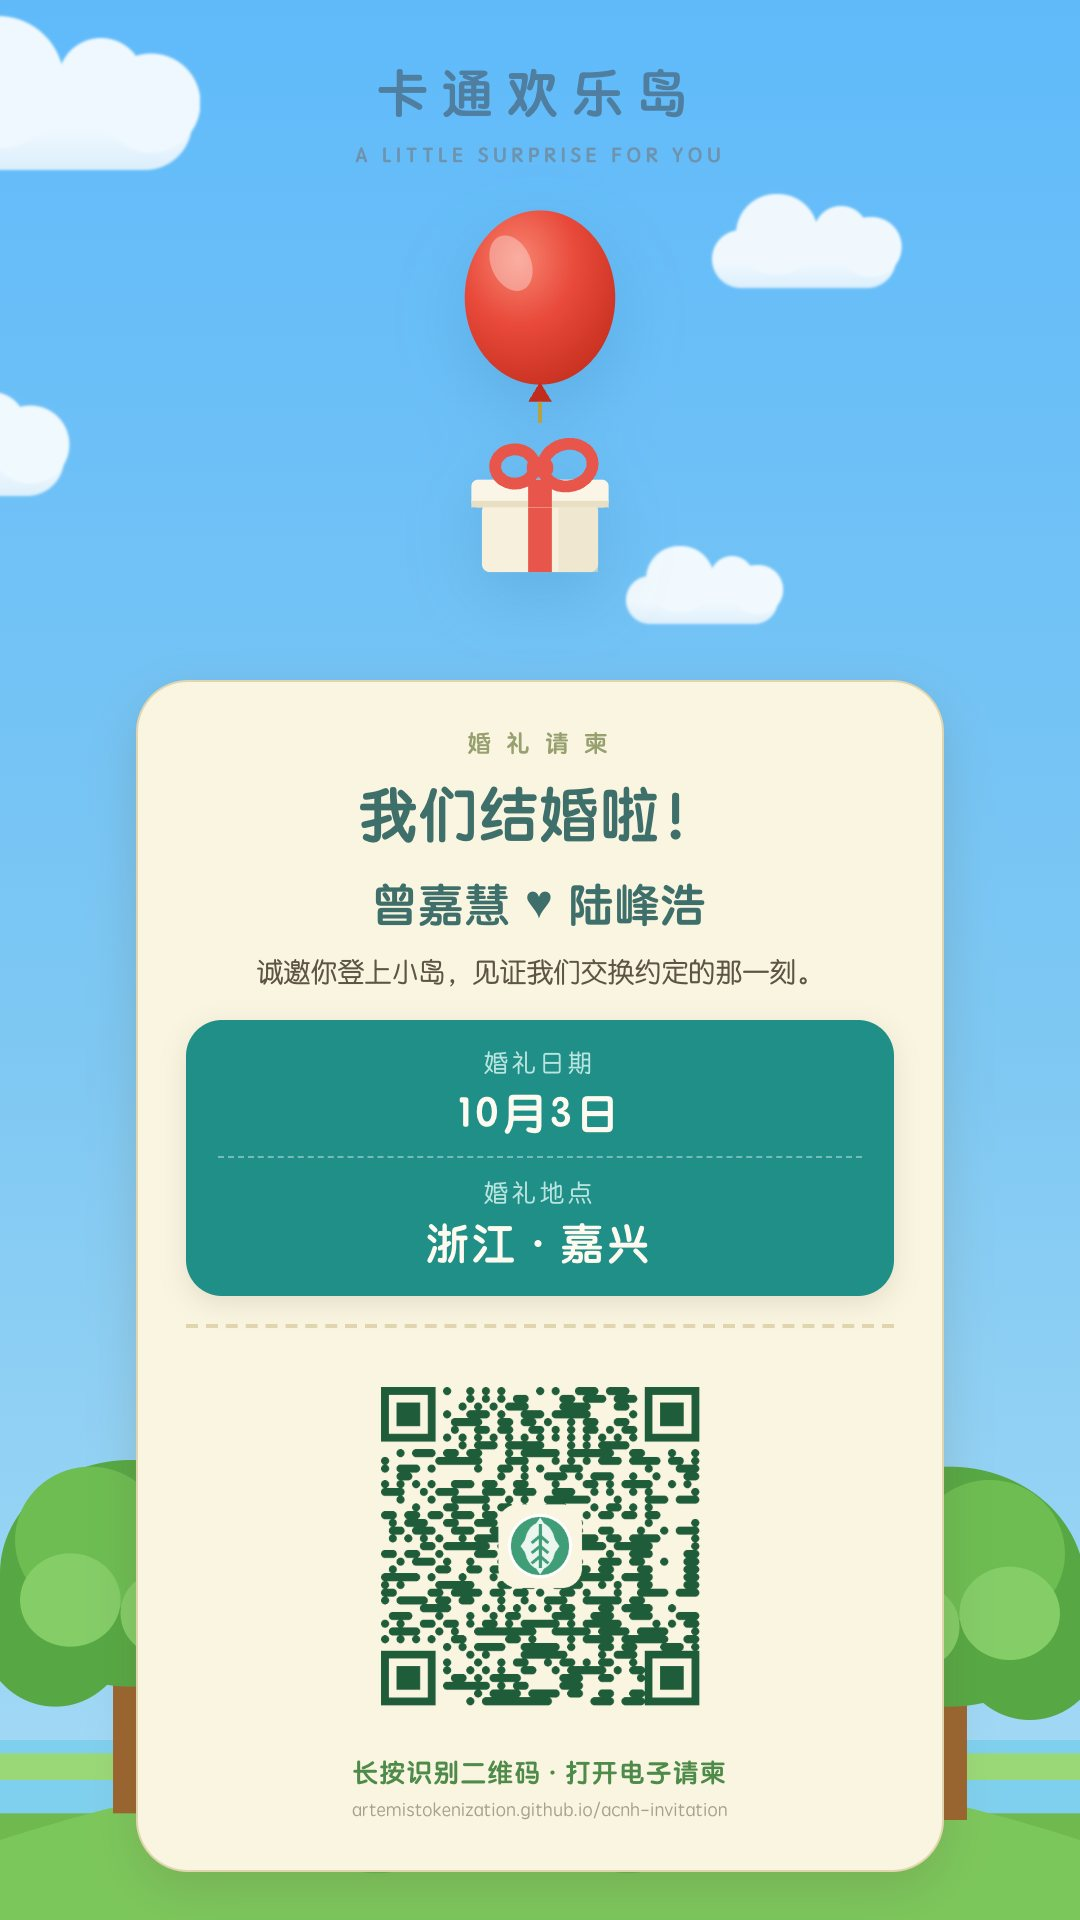
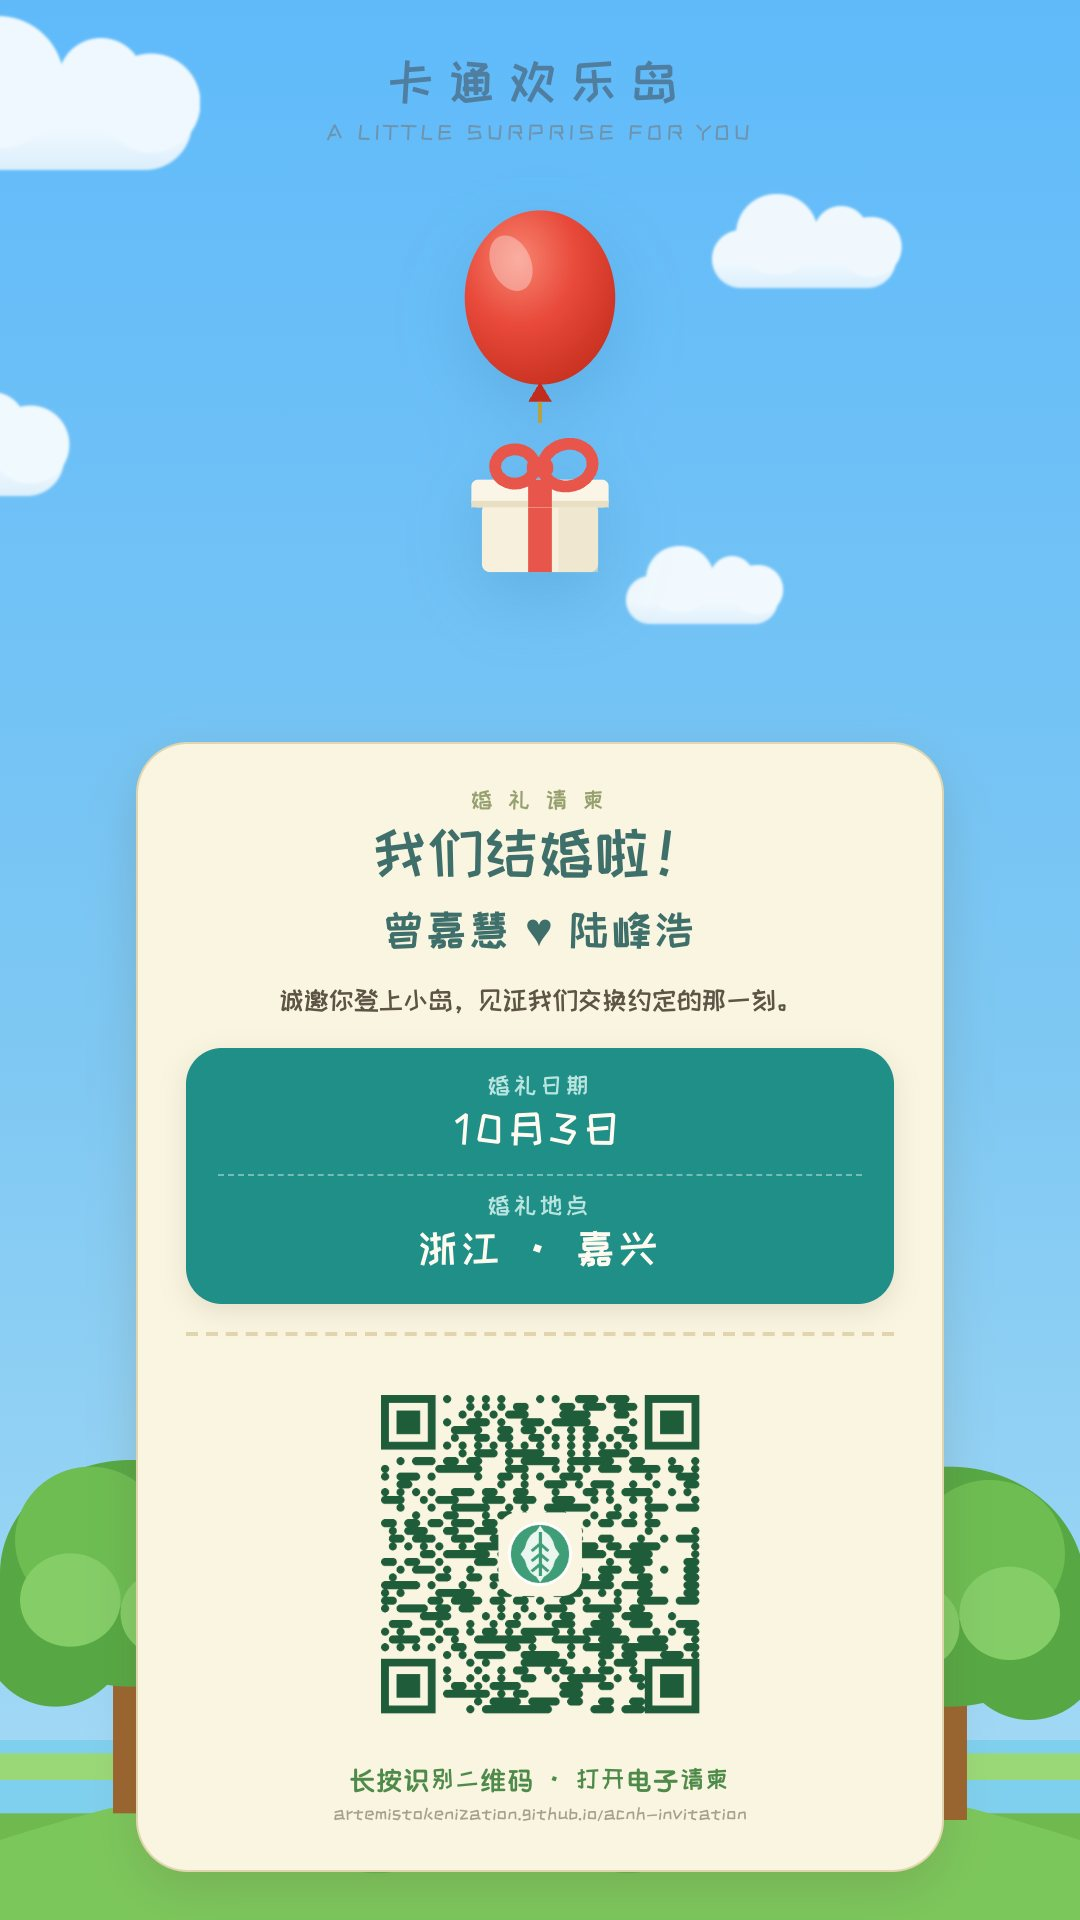
自带站酷快乐体子集(28KB)修安卓掉黑体；面板补动森点阵纹理；按钮恢复厚底边
- Yuanti SC 只有 iOS 有，安卓微信会掉回黑体导致双端不一致；改用站酷快乐体
  (OFL-1.1 可嵌入) 经 fonttools 子集化到实际用到的 333 字符，1479KB -> 28KB
- document.fonts.check 实测已加载，微信 UA 下同样命中
- 米白面板加两层 radial-gradient 点阵（动森画布质感）；页面背景仍保持平涂，
  因为原片实测该区域标准差 0.000
- 交互件恢复动森的厚底边(pill 4px / cta 5px + 按下位移)，面板维持平涂柔投影
- 海报与分享图同步用该字体重出，全站字形统一

Changed region(s): [[0.1222, 0.3438, 0.8861, 0.6875], [0.3056, 0.7188, 0.6722, 0.9688], [0.3056, 0.0312, 0.6722, 0.0938]]

diff --git a/styles.css b/styles.css
@@ -1,3 +1,10 @@
+@font-face {
+  font-family: "ACNH Round";
+  src: url("acnh-round.woff2?v=24") format("woff2");
+  font-weight: 100 900;
+  font-display: swap;
+}
+
 * { box-sizing: border-box; }
 
 :root {
@@ -9,6 +16,8 @@
   --cream-edge: #e6dcc0;
   /* 实测：原片面板是平涂 + 柔投影，没有硬厚底边 */
   --panel: 0 4px 14px rgba(96,84,52,.15);
+  --canvas: radial-gradient(circle, rgba(196,184,158,.11) 1.4px, transparent 1.5px) 0 0 / 28px 28px,
+            radial-gradient(circle, rgba(196,184,158,.07) 0.9px, transparent 1px) 7px 7px / 14px 14px;
   --panel-lg: 0 9px 24px rgba(96,84,52,.19);
   --gold: #eab94a;
   --ink: #4d4436;
@@ -16,7 +25,7 @@
   --red: #e8564b;
   --wood: #c58a45;
   /* 圆体-简 是 iOS/macOS 系统字体：iPhone 零下载就是动森那种圆头字 */
-  --font: "Yuanti SC", "圆体-简", "PingFang SC", "Hiragino Sans GB", "Microsoft YaHei", sans-serif;
+  --font: "ACNH Round", "Yuanti SC", "圆体-简", "PingFang SC", "Hiragino Sans GB", "Microsoft YaHei", sans-serif;
 }
 
 html, body {
@@ -63,16 +72,16 @@ button { cursor: pointer; border: 0; background: none; }
   gap: 5px;
   padding: 9px 15px;
   border-radius: 999px;
-  background: var(--cream);
+  background: var(--canvas), var(--cream);
   border: 1px solid var(--cream-edge);
-  box-shadow: 0 2px 0 rgba(190,176,134,.5), var(--panel);
+  box-shadow: 0 4px 0 #ddd0ab, var(--panel);
   font-size: 13px;
   font-weight: 600;
   letter-spacing: 0.02em;
   color: var(--ink);
   transition: transform 0.12s, box-shadow 0.12s, background 0.2s;
 }
-.pill:active { transform: translateY(1px); box-shadow: 0 0 0 rgba(0,0,0,0), 0 1px 6px rgba(96,84,52,.12); }
+.pill:active { transform: translateY(3px); box-shadow: 0 1px 0 #ddd0ab; }
 .pill i { font-style: normal; font-weight: 800; }
 .pill.on { background: #fff8e0; border-color: var(--gold); }
 .pill-jump { padding-block: 10px; }
@@ -375,10 +384,10 @@ button { cursor: pointer; border: 0; background: none; }
   font-size: 15px;
   font-weight: 800;
   letter-spacing: 0.06em;
-  box-shadow: var(--panel-lg);
+  box-shadow: 0 5px 0 #d9a83f, var(--panel-lg);
   transition: transform 0.12s, box-shadow 0.12s;
 }
-.cta:active { transform: translateY(2px); box-shadow: 0 2px 8px rgba(0,0,0,.10); }
+.cta:active { transform: translateY(4px); box-shadow: 0 1px 0 #d9a83f; }
 .cta i { font-style: normal; }
 .bubble .cta { display: inline-block; margin-top: 12px; }
 [hidden] { display: none !important; }
@@ -388,9 +397,9 @@ button { cursor: pointer; border: 0; background: none; }
   color: #fdf6e2;
   padding: 11px 24px;
   font-size: 14px;
-  box-shadow: 0 3px 0 #3d6f3a, var(--panel);
+  box-shadow: 0 5px 0 #356033, var(--panel);
 }
-.cta-green:active { transform: translateY(2px); box-shadow: 0 1px 0 #3d6f3a, 0 2px 8px rgba(0,0,0,.10); }
+.cta-green:active { transform: translateY(4px); box-shadow: 0 1px 0 #356033; }
 
 /* 开场气泡前的小礼物角标 */
 .bubble-text.has-gift::before {
@@ -496,7 +505,7 @@ button { cursor: pointer; border: 0; background: none; }
   font-size: 14px;
   font-weight: 800;
   letter-spacing: 0.1em;
-  box-shadow: 0 2px 0 rgba(196,144,31,.45), var(--panel);
+  box-shadow: 0 4px 0 #d9a83f, var(--panel);
 }
 .bubble-lg { min-height: 0; text-align: left; padding: 28px 22px 30px; cursor: pointer; }
 .bubble-lg .bubble-text { font-size: 20px; min-height: 3.7em; }
@@ -567,7 +576,7 @@ button { cursor: pointer; border: 0; background: none; }
   margin-top: 10px;
   padding: 13px 16px;
   border-radius: 20px;
-  background: #fffdf5;
+  background: var(--canvas), #fffdf5;
   border: 1px solid #e6dcc0;
   box-shadow: var(--panel);
   font-size: 14px;
@@ -595,7 +604,7 @@ button { cursor: pointer; border: 0; background: none; }
   margin-top: 16px;
   padding: 20px 18px 22px;
   border-radius: 24px;
-  background: linear-gradient(170deg, #fffdf5, #f2f4e0);
+  background: var(--canvas), linear-gradient(170deg, #fffdf5, #f2f4e0);
   border: 2px solid #e6dcc0;
   box-shadow: var(--panel);
   text-align: center;

diff --git a/index.html b/index.html
@@ -17,7 +17,7 @@
     <meta property="mp:desc" content="卡通欢乐岛婚礼请柬 · 10月3日 浙江嘉兴" />
     <meta property="mp:image:" content="https://artemistokenization.github.io/acnh-invitation/share.jpg" />
     <link rel="icon" href="data:," />
-    <link rel="stylesheet" href="styles.css?v=22" />
+    <link rel="stylesheet" href="styles.css?v=24" />
   </head>
   <body>
     <div class="app">
@@ -173,7 +173,7 @@
         <!-- 场景二：岛内广播 -->
         <section class="scene scene-broadcast" id="scene-broadcast">
           <div class="booth">
-            <video class="character" id="character" src="cast.mp4?v=22" poster="poster.jpg?v=22" playsinline webkit-playsinline="true" x5-playsinline="" x5-video-player-type="h5-page" x5-video-player-fullscreen="false" preload="auto" disablepictureinpicture controlslist="nodownload noplaybackrate" aria-label="西施惠岛内广播（ACNH 游戏原生过场录像，原声播放）"></video>
+            <video class="character" id="character" src="cast.mp4?v=24" poster="poster.jpg?v=24" playsinline webkit-playsinline="true" x5-playsinline="" x5-video-player-type="h5-page" x5-video-player-fullscreen="false" preload="auto" disablepictureinpicture controlslist="nodownload noplaybackrate" aria-label="西施惠岛内广播（ACNH 游戏原生过场录像，原声播放）"></video>
             <span class="note-fx" id="note-fx">♪</span>
           </div>
 
@@ -224,6 +224,6 @@
       </main>
       <i class="iris" id="iris" aria-hidden="true"></i>
     </div>
-    <script type="module" src="app.js?v=22"></script>
+    <script type="module" src="app.js?v=24"></script>
   </body>
 </html>

diff --git a/app.js b/app.js
@@ -20,7 +20,7 @@ function preloadBlip() {
   try {
     ensureCtx();
     if (blipBuf) return;
-    fetch("blip.m4a?v=22")
+    fetch("blip.m4a?v=24")
       .then((r) => r.arrayBuffer())
       .then((b) => ac.decodeAudioData(b))
       .then((buf) => { blipBuf = buf; })
@@ -393,7 +393,7 @@ async function boot() {
   setSwitch(el("btn-sound"), true, "开", "关");
   video.muted = false;
 
-  const res = await fetch("sync.json?v=22");
+  const res = await fetch("sync.json?v=24");
   const data = await res.json();
   data.lines.forEach((l) => { l._times = lineTimes(l); });
   sync = data;
